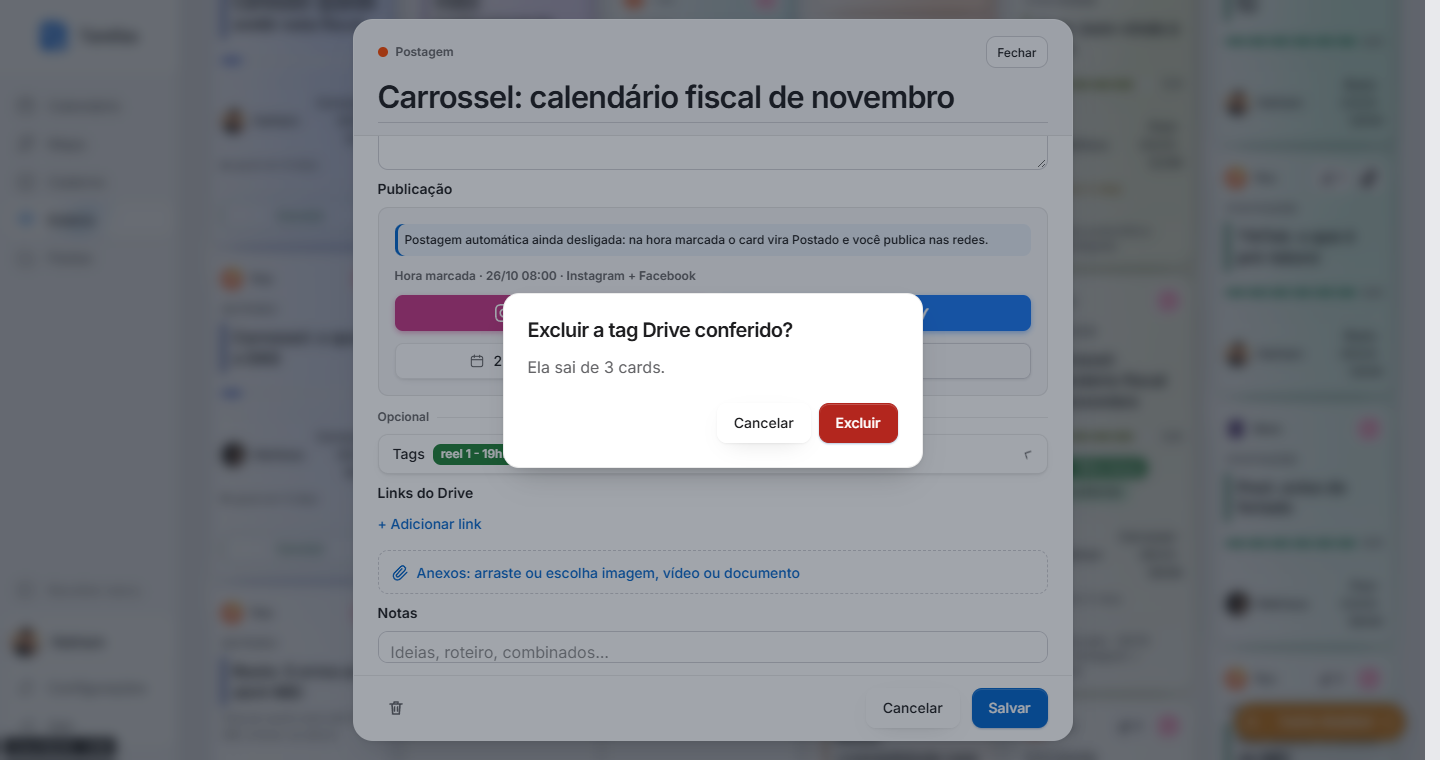
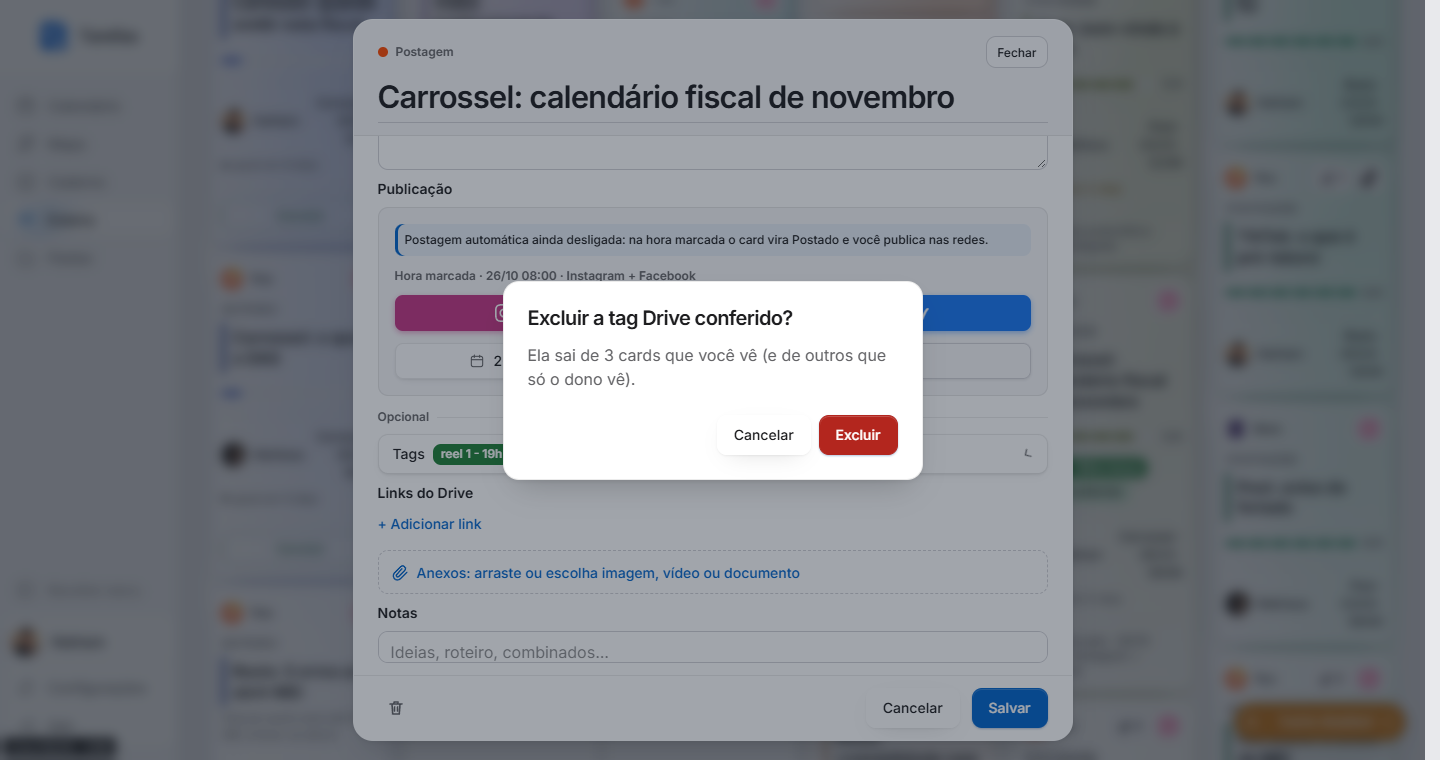
243-ficha: salvar so manda tags que ainda existem (rele do banco), excluir tag so tira depois que o banco confirma; confirmacao conta todos os cards pelo banco (contar_cards_da_tag, 022) e, se falhar, os que voce ve, dizendo isso

Changed region(s): [[0.3438, 0.3632, 0.6562, 0.5145], [0.3438, 0.5145, 0.6562, 0.6355]]

diff --git a/src/components/ficha/TagsFicha.tsx b/src/components/ficha/TagsFicha.tsx
@@ -4,11 +4,14 @@
 // `aprovadorTravado`: só o Natham, o Matheus ou quem aprova muda o aprovador (015, 223).
 // Item 242: na lista, cada tag tem lápis (abre a mesma linha da "Nova tag", já preenchida) e lixeira (com confirmação de quantos cards ela sai),
 // para o Natham e o Matheus. A tag do sistema ("Esperando aprovação", liga o Quem aprova) só mostra um cadeado.
+// 243: excluir não mexe no rascunho: a tag some da lista quando o banco confirma, e o salvar da ficha só manda tag que ainda existe.
+// A contagem vem do banco (todos os cards, inclusive os que só o dono vê); se a função falhar (antes do 022), conta os que a pessoa vê e diz isso.
 import { useState } from "react";
-import { APROVADORES, ETIQUETAS, editarTag, excluirTag, salvarTag, useEu, useTags, useTarefas, type Etiqueta, type NovaTarefa, type Tag } from "@/lib/dados";
+import { APROVADORES, ETIQUETAS, contarCardsDaTag, editarTag, excluirTag, salvarTag, useEu, useTags, useTarefas, type Etiqueta, type NovaTarefa, type Tag } from "@/lib/dados";
 import { Selecao } from "@/components/ui/Selecao";
 import { Aprovador, TagChip } from "@/components/ui/Tag";
 import { Cadeado } from "./CampoOcasiao";
+import { textoExcluirTag } from "./arrumar";
 import { Confirmar } from "./Confirmar";
 
 const fecharLista = (e: { currentTarget: HTMLElement }) => (e.currentTarget.closest("[popover]") as HTMLElement | null)?.hidePopover();
@@ -21,7 +24,7 @@ export function TagsFicha({ t, mudar, pedeAprovador, aprovadorTravado }: {
   const eu = useEu();
   const mexeTags = eu === "natham" || eu === "matheus";
   const [novaTag, setNovaTag] = useState<{ id?: string; nome: string; cor: Etiqueta } | null>(null); // com id = editando essa tag
-  const [excluindo, setExcluindo] = useState<Tag | null>(null);
+  const [excluindo, setExcluindo] = useState<{ tag: Tag; total: number | null } | null>(null); // total: contagem do banco (null = falhou)
   const [novoNome, setNovoNome] = useState<string | null>(null);
   const marcadas = t.tags ?? [];
   const aprovadores = [...new Set<string>([...APROVADORES, ...todas.flatMap((x) => (x.aprovador ? [x.aprovador] : [])), ...(t.aprovador ? [t.aprovador] : [])])];
@@ -38,7 +41,7 @@ export function TagsFicha({ t, mudar, pedeAprovador, aprovadorTravado }: {
       <button type="button" className="ficha-tag-acao" aria-label={`Editar a tag ${g.nome}`} title="Editar" onClick={(e) => { fecharLista(e); setNovaTag({ id: g.id, nome: g.nome, cor: g.cor }); }}>
         <svg viewBox="0 0 24 24" aria-hidden><path d="M4 20h4L19 9l-4-4L4 16v4zM13.5 6.5l4 4" /></svg>
       </button>
-      <button type="button" className="ficha-tag-acao" data-perigo aria-label={`Excluir a tag ${g.nome}`} title="Excluir" onClick={(e) => { fecharLista(e); setExcluindo(g); }}>
+      <button type="button" className="ficha-tag-acao" data-perigo aria-label={`Excluir a tag ${g.nome}`} title="Excluir" onClick={async (e) => { fecharLista(e); setExcluindo({ tag: g, total: await contarCardsDaTag(g.id) }); }}>
         <svg viewBox="0 0 20 20" aria-hidden><path d="M4 6h12M8 6V4h4v2M6 6l.7 10h6.6L14 6M8.5 9v4M11.5 9v4" /></svg>
       </button>
     </>;
@@ -82,10 +85,10 @@ export function TagsFicha({ t, mudar, pedeAprovador, aprovadorTravado }: {
         </>
       )}
       {excluindo && (
-        <Confirmar titulo={`Excluir a tag ${excluindo.nome}?`} acao="Excluir" perigo
-          texto={((n) => (n ? `Ela sai de ${n} ${n === 1 ? "card" : "cards"}.` : "Nenhum card usa esta tag."))(emQuantos(excluindo.id))}
+        <Confirmar titulo={`Excluir a tag ${excluindo.tag.nome}?`} acao="Excluir" perigo
+          texto={textoExcluirTag(excluindo.total, emQuantos(excluindo.tag.id))}
           aoCancelar={() => setExcluindo(null)}
-          aoConfirmar={() => { const id = excluindo.id; setExcluindo(null); if (marcadas.includes(id)) mudar("tags", marcadas.filter((x) => x !== id)); void excluirTag(id); }} />
+          aoConfirmar={() => { const id = excluindo.tag.id; setExcluindo(null); void excluirTag(id); }} />
       )}
     </div>
   );

diff --git a/src/lib/dados/repositorio.ts b/src/lib/dados/repositorio.ts
@@ -100,6 +100,8 @@ function iniciar() {
   document.addEventListener("visibilitychange", () => { if (!document.hidden) void carregar(); });
 }
 
+const daTag = (x: Tag): Tag => ({ id: x.id, nome: x.nome, cor: x.cor, ...(x.aprovacao && { aprovacao: true as const }) });
+
 async function carregar() {
   const sb = supabase();
   const [p, e, t, g, f, sessao] = await Promise.all([
@@ -117,7 +119,7 @@ async function carregar() {
   if (!eu) falhou("Seu login ainda não está ligado a uma pessoa. Fale com o Natham.");
   const [anexos, postagens] = await Promise.all([carregarAnexos(sb), carregarPostagens(sb)]);
   empresas = e.data as Empresa[];
-  tags = (g.data as Tag[]).map((x) => ({ id: x.id, nome: x.nome, cor: x.cor, ...(x.aprovacao && { aprovacao: true as const }) }));
+  tags = (g.data as Tag[]).map(daTag);
   tarefas = (t.data as LinhaTarefa[]).map((l) => daLinha(l, anexos.get(l.id) ?? tarefas.find((x) => x.id === l.id)?.arquivos.filter((a) => a.pendente), slugDe, postagens.get(l.id)))
     .map((x) => (cancelados.has(x.id) && !x.postarEm ? { ...x, programacaoCancelada: true } : x));
   fazendo = doBanco(f.data as LinhaFazendo[]);
@@ -286,11 +288,13 @@ export async function editarTag(id: string, mudou: Pick<Tag, "nome" | "cor">): P
   if (error) { tags = tags.map((t) => (t.id === id ? antes : t)); falhou("Não consegui mudar a tag. Tente de novo."); }
 }
 
-/** 242 · Apaga a tag; o banco a tira de todos os cards sozinho (tarefa_tags com on delete cascade). Otimista; volta se o banco recusar. */
-export async function excluirTag(id: string): Promise<void> {
+/** 242 · Apaga a tag; o banco a tira de todos os cards sozinho (tarefa_tags com on delete cascade).
+    243: NÃO é otimista: a tag só sai da tela (e dos rascunhos, que filtram ao salvar) DEPOIS que o banco confirma. true = apagou. */
+export async function excluirTag(id: string): Promise<boolean> {
   const antes = tags.find((t) => t.id === id);
-  if (!antes || antes.aprovacao) return;
-  const tagsAntes = tags, tarefasAntes = tarefas;
+  if (!antes || antes.aprovacao) return false;
+  const { error } = await supabase().from("tags").delete().eq("id", id);
+  if (error) { falhou("Não consegui excluir a tag. Tente de novo."); return false; }
   tags = tags.filter((t) => t.id !== id);
   tarefas = tarefas.map((t) => {
     if (!t.tags?.includes(id)) return t;
@@ -298,8 +302,22 @@ export async function excluirTag(id: string): Promise<void> {
     return { ...t, tags: resto.length ? resto : undefined };
   });
   avisar();
-  const { error } = await supabase().from("tags").delete().eq("id", id);
-  if (error) { tags = tagsAntes; tarefas = tarefasAntes; falhou("Não consegui excluir a tag. Tente de novo."); }
+  return true;
+}
+
+/** 243 · Quantos cards usam a tag, contando TODOS (inclusive os que só o dono vê): public.contar_cards_da_tag (022). null = a função falhou
+    (antes do 022 colado, ou sem rede): quem chama cai na contagem dos cards que a pessoa vê. */
+export async function contarCardsDaTag(id: string): Promise<number | null> {
+  const { data, error } = await supabase().rpc("contar_cards_da_tag", { p_tag: id });
+  return !error && typeof data === "number" ? data : null;
+}
+
+/** 243 · Lê as tags de novo do banco e devolve os ids que existem. A ficha chama antes de salvar: outra pessoa pode ter excluído
+    uma tag marcada no rascunho, e o id apagado faria o salvar inteiro falhar (chave estrangeira em tarefa_tags). Falhou a leitura: fica a lista atual. */
+export async function recarregarTags(): Promise<string[]> {
+  const { data, error } = await supabase().from("tags").select("id, nome, cor, aprovacao").order("nome");
+  if (!error && data) { tags = (data as Tag[]).map(daTag); avisar(); }
+  return tags.map((t) => t.id);
 }
 
 /** Marca a tarefa em que `eu` está agora (troca a anterior, se houver). Otimista; volta se o banco recusar. */

diff --git a/src/lib/dados/tags.test.ts b/src/lib/dados/tags.test.ts
@@ -1,0 +1,45 @@
+import { beforeEach, describe, expect, it, vi } from "vitest";
+
+// 243 · excluirTag só tira a tag depois que o banco confirma; recarregarTags devolve o que existe no banco.
+let lidas: { id: string; nome: string; cor: string; aprovacao: boolean }[] = [];
+let apagar: () => Promise<{ error: unknown }> = async () => ({ error: null });
+const tabela = { select: () => ({ order: async () => ({ data: lidas, error: null }) }), delete: () => ({ eq: () => apagar() }) };
+let contar: () => Promise<{ data: unknown; error: unknown }> = async () => ({ data: 0, error: null });
+const rpc = vi.fn((nome: string, args: unknown) => (void nome, void args, contar()));
+vi.mock("@/lib/supabase/cliente", () => ({ supabase: () => ({ from: () => tabela, rpc }) }));
+
+const { contarCardsDaTag, excluirTag, lerErro, lerTags, limparErro, recarregarTags } = await import("./repositorio");
+const tag = (id: string, aprovacao = false) => ({ id, nome: id, cor: "etiqueta-1", aprovacao });
+beforeEach(async () => { lidas = [tag("a"), tag("b"), tag("sistema", true)]; await recarregarTags(); limparErro(); });
+
+describe("tags (243)", () => {
+  it("contarCardsDaTag: o número do banco; função ausente (antes do 022) ou resposta estranha = null", async () => {
+    contar = async () => ({ data: 7, error: null });
+    expect(await contarCardsDaTag("a")).toBe(7);
+    expect(rpc).toHaveBeenLastCalledWith("contar_cards_da_tag", { p_tag: "a" });
+    contar = async () => ({ data: null, error: { code: "PGRST202" } });
+    expect(await contarCardsDaTag("a")).toBeNull();
+    contar = async () => ({ data: "7", error: null });
+    expect(await contarCardsDaTag("a")).toBeNull();
+  });
+  it("recarregarTags devolve os ids do banco (tag excluída por outra pessoa some)", async () => {
+    lidas = [tag("a")];
+    expect(await recarregarTags()).toEqual(["a"]);
+  });
+  it("excluirTag: enquanto o banco não responde a tag continua; confirmou, sai", async () => {
+    let soltar!: (r: { error: unknown }) => void;
+    apagar = () => new Promise((r) => { soltar = r; });
+    const indo = excluirTag("a");
+    expect(lerTags().map((t) => t.id)).toContain("a");
+    soltar({ error: null });
+    expect(await indo).toBe(true);
+    expect(lerTags().map((t) => t.id)).not.toContain("a");
+  });
+  it("excluirTag: o banco recusou, a tag fica e aparece o aviso; a tag do sistema nem tenta", async () => {
+    apagar = async () => ({ error: { message: "rede" } });
+    expect(await excluirTag("b")).toBe(false);
+    expect(lerTags().map((t) => t.id)).toContain("b");
+    expect(lerErro()).toBe("Não consegui excluir a tag. Tente de novo.");
+    expect(await excluirTag("sistema")).toBe(false);
+  });
+});

diff --git a/src/components/ficha/Ficha.tsx b/src/components/ficha/Ficha.tsx
@@ -21,7 +21,7 @@
 import { useEffect, useRef, useState, type CSSProperties, type ReactNode } from "react";
 import { ehConteudo } from "@/components/tarefas/grade";
 import {
-  FORMATOS, REDES, RESPONSAVEIS, TIPOS, arquivosDoDrive, lerErro, organizarCard, limparErro, podeAlterar, podeApagar, removerTarefa, salvarTarefa, useEmpresas, useErroDados, useEu, useTags, useTarefas, useTarefasNoGoogle,
+  FORMATOS, REDES, RESPONSAVEIS, TIPOS, arquivosDoDrive, lerErro, organizarCard, recarregarTags, limparErro, podeAlterar, podeApagar, removerTarefa, salvarTarefa, useEmpresas, useErroDados, useEu, useTags, useTarefas, useTarefasNoGoogle,
   type Etapa, type Formato, type Link as LinkDrive, type NovaTarefa, type Rede, type Responsavel, type Tarefa, type TipoTarefa,
 } from "@/lib/dados";
 import Link from "next/link";
@@ -37,7 +37,7 @@ import { CamposPost } from "./CamposPost";
 import { Publicacao } from "./Publicacao";
 import { TagsFicha } from "./TagsFicha";
 import { LINK_VALIDO, LinksDrive } from "./LinksDrive";
-import { arrumar, ehQuemAprova, etapaAoSalvar, fimValido, mudouPasta, podeTrocarAprovador, trocarEmpresa } from "./arrumar";
+import { arrumar, ehQuemAprova, etapaAoSalvar, fimValido, mudouPasta, podeTrocarAprovador, soTagsQueExistem, trocarEmpresa } from "./arrumar";
 import { CampoOcasiao, PrazoDrive } from "./CampoOcasiao";
 import { TextoComLinks } from "@/components/pastas/links";
 import { CampoData } from "@/components/ui/CampoData";
@@ -158,8 +158,9 @@ export function Ficha({ tarefa, aoFechar, aoSalvar, soLer, tipos = TIPOS }: {
     // Tarefa nova para outra pessoa vai para o caderno dela (achado 2, igual ao Caderno). Conteúdo com empresa todos já veem: fica de quem criou.
     const etapa = etapaAoSalvar(t);
     const enviarPara = nova && t.responsavel !== eu && !ehConteudo({ ...t, etapa }) ? t.responsavel : undefined;
+    const existem = t.tags?.length ? await recarregarTags() : []; // 243: tag excluída enquanto a ficha estava aberta não vai
     const pronta = arrumar(t, pedeAprovador, {
-      ...quando, etapa, enviarPara, arquivos,
+      ...quando, etapa, enviarPara, arquivos, tags: soTagsQueExistem(t.tags, existem),
       vaiProGoogle: nova ? vai : tarefa.vaiProGoogle, // só liga na criação e se pode ir (R5-5)
       links: links.filter((l) => LINK_VALIDO.test(l.url.trim())).map((l) => ({ rotulo: l.rotulo.trim() || "Link do Drive", url: l.url.trim() })),
     });

diff --git a/src/components/ficha/arrumar.test.ts b/src/components/ficha/arrumar.test.ts
@@ -1,6 +1,6 @@
 import { describe, expect, it } from "vitest";
 import type { NovaTarefa } from "@/lib/dados";
-import { arrumar, ehQuemAprova, etapaAoSalvar, mudouPasta, podeTrocarAprovador, trocarEmpresa } from "./arrumar";
+import { arrumar, ehQuemAprova, etapaAoSalvar, mudouPasta, podeTrocarAprovador, soTagsQueExistem, textoExcluirTag, trocarEmpresa } from "./arrumar";
 
 describe("ficha: o que vai para o banco ao salvar (Lupa R6-1)", () => {
   const t: NovaTarefa = {
@@ -69,5 +69,23 @@ describe("trocarEmpresa (239)", () => {
     expect(trocarEmpresa(card, "beec")).toMatchObject({ empresaId: "beec", ocasiaoId: undefined });
     expect(trocarEmpresa(card, "")).toMatchObject({ empresaId: "", ocasiaoId: undefined });
     expect(trocarEmpresa(card, "you")).toBe(card);
+  });
+});
+
+describe("soTagsQueExistem (243)", () => {
+  it("tira do rascunho o id de tag que não existe mais; sem nenhuma, fica sem tags", () => {
+    expect(soTagsQueExistem(["a", "x", "b"], ["a", "b", "c"])).toEqual(["a", "b"]);
+    expect(soTagsQueExistem(["x"], ["a"])).toBeUndefined();
+    expect(soTagsQueExistem(undefined, ["a"])).toBeUndefined();
+  });
+});
+
+describe("textoExcluirTag (243)", () => {
+  it("com a contagem do banco: todos os cards; sem ela (função falhou): os que você vê, dizendo isso", () => {
+    expect(textoExcluirTag(5, 2)).toBe("Ela sai de 5 cards.");
+    expect(textoExcluirTag(1, 0)).toBe("Ela sai de 1 card.");
+    expect(textoExcluirTag(0, 0)).toBe("Nenhum card usa esta tag.");
+    expect(textoExcluirTag(null, 3)).toBe("Ela sai de 3 cards que você vê (e de outros que só o dono vê).");
+    expect(textoExcluirTag(null, 0)).toBe("Nenhum card que você vê usa esta tag (ela sai também dos que só o dono vê).");
   });
 });

diff --git a/src/components/ficha/arrumar.ts b/src/components/ficha/arrumar.ts
@@ -25,6 +25,21 @@ export const ehQuemAprova = (aprovador: string | undefined, eu: Responsavel | nu
     ou quem aprova hoje. Antes era só ehQuemAprova, e o Matheus não escolhia nada em card do Natham ou sem aprovador. */
 export const podeTrocarAprovador = (aprovador: string | undefined, eu: Responsavel | null) => eu === "matheus" || ehQuemAprova(aprovador, eu);
 
+/** 243: só as tags que ainda existem vão para o banco (uma tag excluída por outra pessoa faria o salvar inteiro falhar). */
+export const soTagsQueExistem = (ids: readonly string[] | undefined, existem: readonly string[]) => {
+  const ficam = ids?.filter((id) => existem.includes(id));
+  return ficam?.length ? ficam : undefined;
+};
+
+/** 243 · Texto da confirmação de excluir tag. `total` = todos os cards (função do banco, 022); null = a função falhou: conta só os que a pessoa vê e diz isso. */
+export function textoExcluirTag(total: number | null, visiveis: number) {
+  const cards = (n: number) => `${n} ${n === 1 ? "card" : "cards"}`;
+  if (total !== null) return total ? `Ela sai de ${cards(total)}.` : "Nenhum card usa esta tag.";
+  return visiveis
+    ? `Ela sai de ${cards(visiveis)} que você vê (e de outros que só o dono vê).`
+    : "Nenhum card que você vê usa esta tag (ela sai também dos que só o dono vê).";
+}
+
 /** 239: o Tema é da Empresa. Trocar a Empresa tira o Tema (o salvar manda null: campoOcasiao), senão o card da Beec guardaria um Tema da You. */
 export const trocarEmpresa = (t: NovaTarefa, empresaId: string): NovaTarefa => (empresaId === t.empresaId ? t : { ...t, empresaId, ocasiaoId: undefined });
 

diff --git a/src/lib/dados/index.ts b/src/lib/dados/index.ts
@@ -4,7 +4,7 @@ import { useSyncExternalStore } from "react";
 import { assinar, lerEmpresas, lerErro, lerEu, lerFazendo, lerTags, lerTarefas } from "./repositorio";
 
 export * from "./tipos";
-export { salvarTarefa, removerTarefa, salvarEmpresa, salvarTag, editarTag, excluirTag, limparErro, lerErro, comecar, parar, podeAlterar, podeApagar, postarAgora, tentarDeNovo } from "./repositorio";
+export { salvarTarefa, removerTarefa, salvarEmpresa, salvarTag, editarTag, excluirTag, recarregarTags, contarCardsDaTag, limparErro, lerErro, comecar, parar, podeAlterar, podeApagar, postarAgora, tentarDeNovo } from "./repositorio";
 export { postando } from "./postagens";
 
 // Na hidratação vale o que o servidor desenhou: nada carregado. Se o 3º argumento lesse os dados vivos, a tela que hidrata depois
